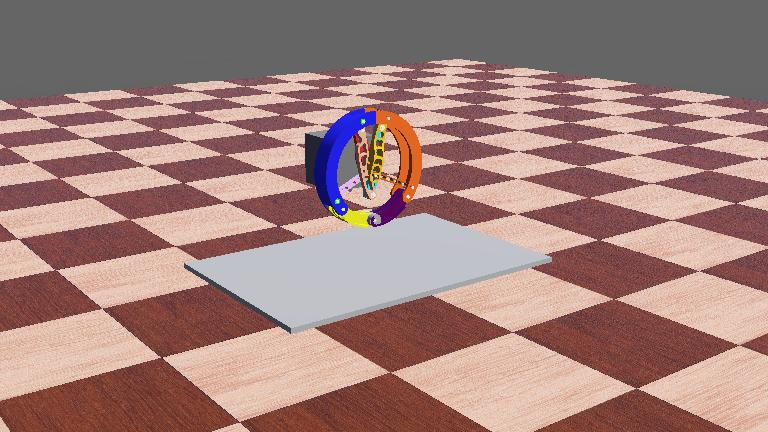
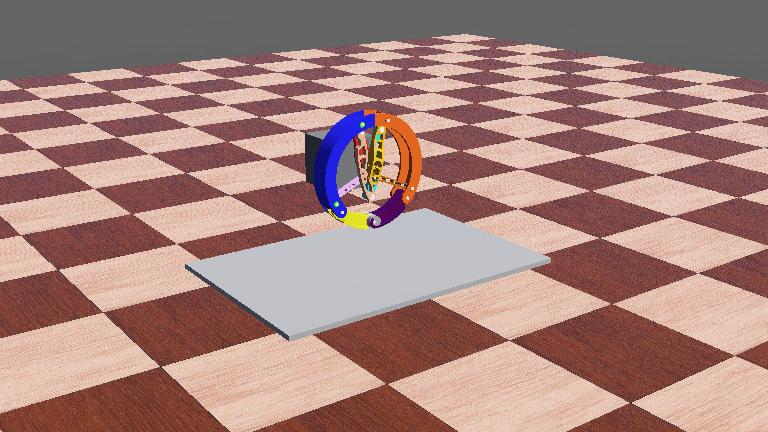
Stable version

diff --git a/controllers/single_leg/single_leg.py b/controllers/single_leg/single_leg.py
@@ -30,26 +30,37 @@ if save_file:
 supervisor.step(1000)
 
 loop_count = 0.0
+theta = 17
+beta = 0
+
 while supervisor.step(timestep) != -1:
     print(f'\n= = = = = Loop Count: {int(loop_count)} = = = = =')
     
-    if loop_count < 1000:
-        theta = 17
-        beta = 0 / 1000 * loop_count
-    elif loop_count < 5000:
-        theta = 17 + 100 / 4000 * (loop_count-1000)
-        beta = 0
-    # elif loop_count < 15000:
-        # theta = 117
+    # if loop_count < 1000:
+        # theta = 50
         # beta = 0
+    # elif loop_count < 5000:
+        # theta = 50 #+ 100 / 4000 * (loop_count-1000)
+        # beta = 100 / 4000 * (loop_count-1000)
+    # elif loop_count < 15000:
+        # theta = 50
+        # beta = 100
     # else:
         # break
-    else:
-        theta = 17 + 50 * (np.cos((loop_count-5000)/1000*np.pi)+1)
-        beta = 50 * (-np.cos((loop_count-5000)/2000*np.pi)+1)
     
-    # theta = 60 # 17 + 50 * (-np.cos((loop_count)/3000*np.pi)+1)
-    # beta = 90
+    time_interval = 2000
+    
+    if loop_count < time_interval * 1: pass
+    elif loop_count < time_interval * 2: theta += 30 / time_interval
+    elif loop_count < time_interval * 3: pass
+    elif loop_count < time_interval * 4: theta -= 30 / time_interval
+    elif loop_count < time_interval * 5: beta += 30 / time_interval
+    elif loop_count < time_interval * 6: theta += 30 / time_interval
+    elif loop_count < time_interval * 7: pass
+    elif loop_count < time_interval * 8: beta += 60 / time_interval
+    elif loop_count < time_interval * 9: theta += 30 / time_interval
+    elif loop_count < time_interval * 10: pass
+    else: break
     
     phi_r = np.deg2rad(beta+theta-17)
     phi_l = np.deg2rad(beta-theta+17)
